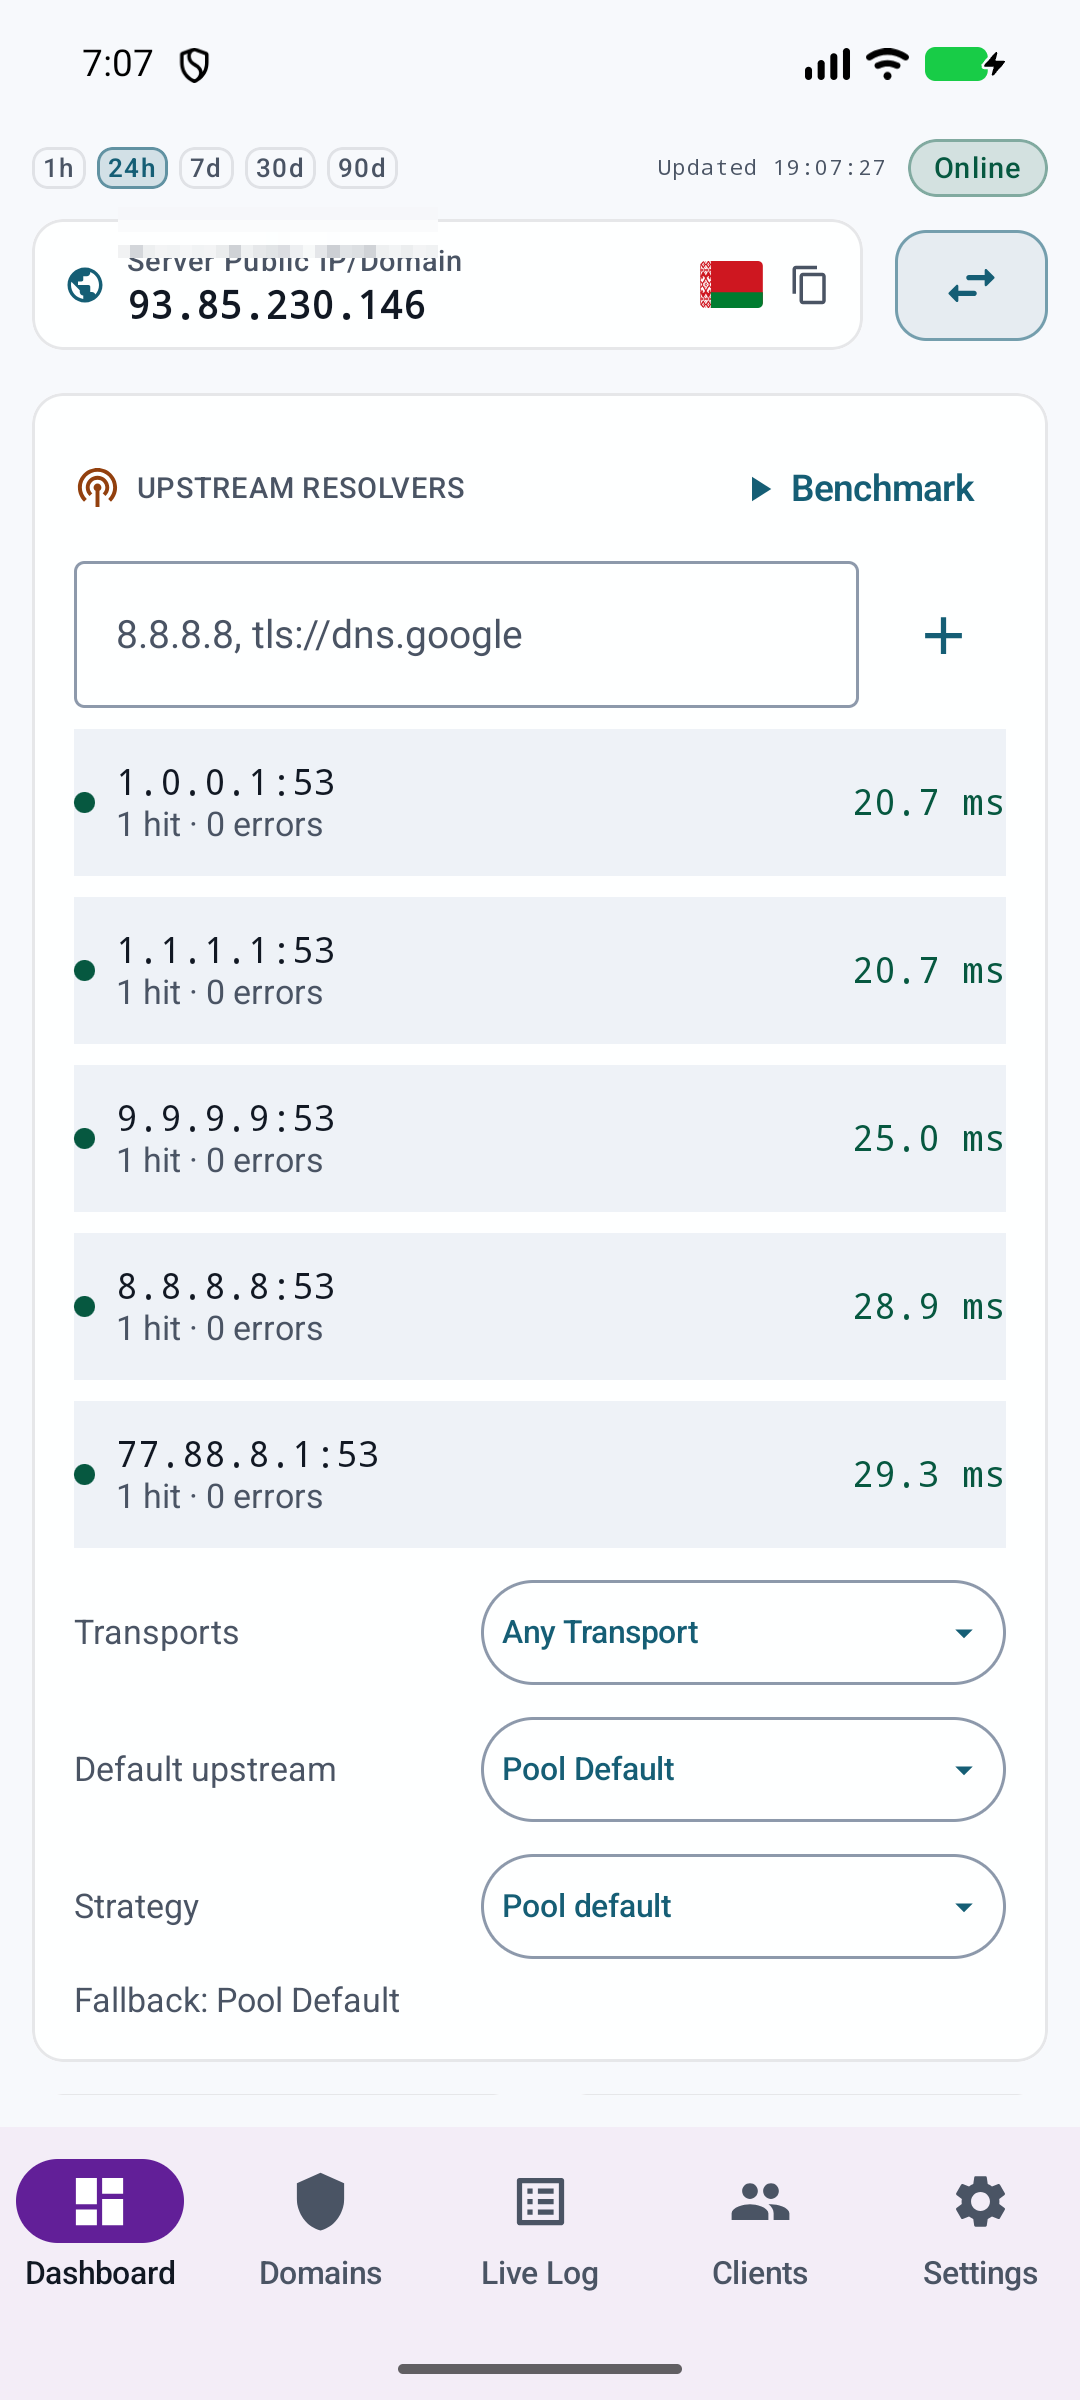
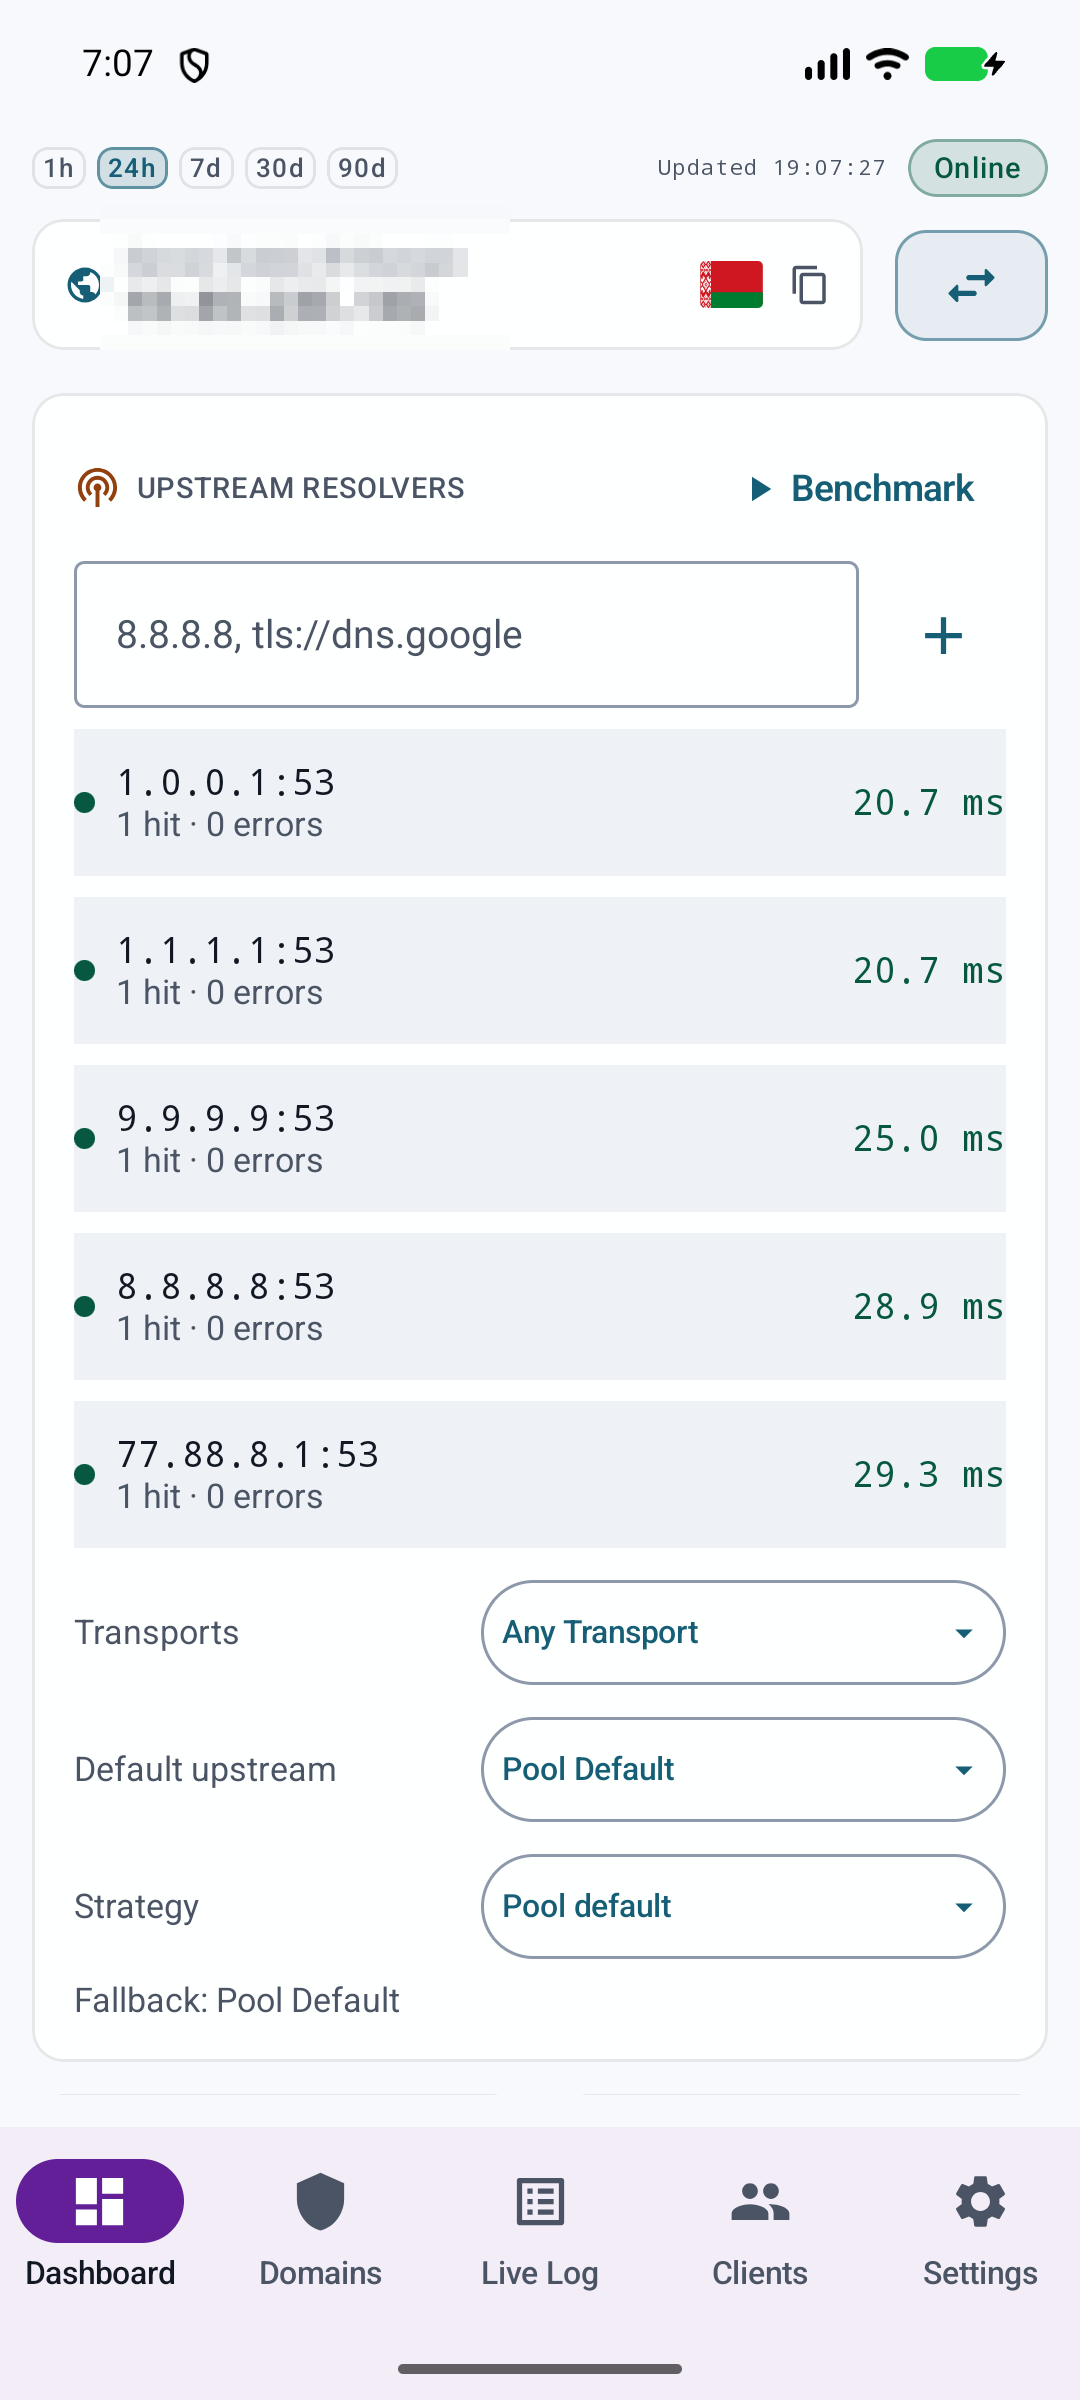
docs: add screenshots gallery and improve repository discoverability
Add web and Android screenshots sections with redacted test-server images, keyword-rich positioning and alternatives wording. Update repository topics and description on GitHub.

Changed region(s): [[0.1222, 0.0938, 0.4278, 0.1562]]

diff --git a/README.md b/README.md
@@ -6,13 +6,17 @@
 [![Docker](https://img.shields.io/github/actions/workflow/status/digitrob/DigitDNS/docker.yml?branch=main&style=for-the-badge&label=Docker)](https://github.com/digitrob/DigitDNS/actions/workflows/docker.yml)
 [![License](https://img.shields.io/badge/License-AGPL--3.0-blue?style=for-the-badge&logo=gnu)](LICENSE)
 
-DigitDNS is a self-hosted DNS resolver, a TLS pass-through relay, a DNS sink with
-ad blocking and a subscriber panel in one static binary. One install covers DNS
-resolution, geo-blocking bypass and ad blocking. Point a phone, console, TV or
+DigitDNS is a self-hosted SmartDNS resolver, a TLS pass-through relay, a DNS sink
+with ad blocking and a subscriber panel in one static binary. One install covers
+DNS resolution, geo-blocking bypass and ad blocking. Point a phone, console, TV or
 router at it and each domain gets one of three answers: resolve normally, refuse
 or answer from the sink, or connect through your server. The panel manages rules,
 subscribers, blocklists, certificates and upstream resolvers; a customer portal
 and a native Android app give subscribers their own view.
+
+**Looking for a self-hosted DNS server, a Pi-hole or AdGuard Home alternative
+with ad blocking, or an SNI proxy for geo-restricted services?** DigitDNS
+combines all three in one install, one panel and one Android companion.
 
 It is a fork of [HyperDNS](https://github.com/IzumiRain/HyperDNS) by HyperRAIN,
 maintained by [Digitrob](https://github.com/digitrob). It is free, open source
@@ -31,6 +35,7 @@ dependency. Use it only on servers and networks you are allowed to operate.
   <a href="#android-app">📱 Android</a> •
   <a href="#operations">🔧 Operations</a> •
   <a href="#security">🛡 Security</a> •
+  <a href="#screenshots">📸 Screenshots</a> •
   <a href="#documentation">📚 Docs</a>
 </p>
 
@@ -69,10 +74,6 @@ panel.
   Blocking** on Android, including custom URL and file upload.
 - **API v3.** `/api/v3/filtering` exposes status, settings, presets, list
   creation, enable/disable, update and delete for automation.
-
-<p align="center">
-  <img src="docs/screenshots/v5-web-adblocking.jpg" alt="DigitDNS ad blocking with active lists pinned first" width="100%">
-</p>
 
 ### 📊 Aggregated statistics
 
@@ -123,6 +124,46 @@ panel.
 
 ---
 
+## Screenshots
+
+### Web dashboard
+
+Live metrics, the sticky history toolbar, the 1h range and export actions. Cards
+can be moved and resized freely.
+
+<p align="center">
+  <img src="docs/screenshots/v5-web-dashboard.jpg" alt="DigitDNS web dashboard: live DNS metrics, 1h aggregate and CSV/JSON exports" width="100%">
+</p>
+
+### Web history
+
+The 1h range drawn from five-minute buckets, with the summary, stacked traffic
+chart and ranked tables.
+
+<p align="center">
+  <img src="docs/screenshots/v5-web-history.jpg" alt="DigitDNS web history: 1h five-minute chart, summary and top domains" width="100%">
+</p>
+
+### Web ad blocking
+
+Forty-five curated blocklists, custom URL and file lists, an allowlist, and the
+enabled lists pinned under **ACTIVE** at the top.
+
+<p align="center">
+  <img src="docs/screenshots/v5-web-adblocking.jpg" alt="DigitDNS web ad blocking: active blocklists, presets, policy and allowlist" width="100%">
+</p>
+
+### Android
+
+| Dashboard | History | Ad blocking |
+| :---: | :---: | :---: |
+| <img src="docs/screenshots/v5-android-dashboard.png" alt="DigitDNS Android dashboard with range chips and updated clock" width="240"> | <img src="docs/screenshots/v5-android-history.png" alt="DigitDNS Android history summary and five-minute chart" width="240"> | <img src="docs/screenshots/v5-android-adblocking.png" alt="DigitDNS Android ad blocking with active blocklists" width="240"> |
+
+> Screenshots use a test server. The public address and one client name are
+> pixelated.
+
+---
+
 ## Why DigitDNS
 
 - **One binary, no runtime.** DNS, DoT, DoH, the TLS relay, the panel, the REST
@@ -139,6 +180,9 @@ panel.
   Android client area.
 - **Encrypted DNS where it matters.** DoT and DoH for clients; DoT, DoH, DoQ,
   DoH3 and DNSCrypt for upstreams.
+- **A Pi-hole / AdGuard Home alternative with a relay.** Run the 45-preset
+  blocklist engine on its own, or let the same install bypass geo-blocks through
+  SNI relay agents.
 
 **What it is not:** a VPN. Only names you mark as proxied are relayed; all other
 traffic keeps its direct path. It also does not hide your server's IP from the
